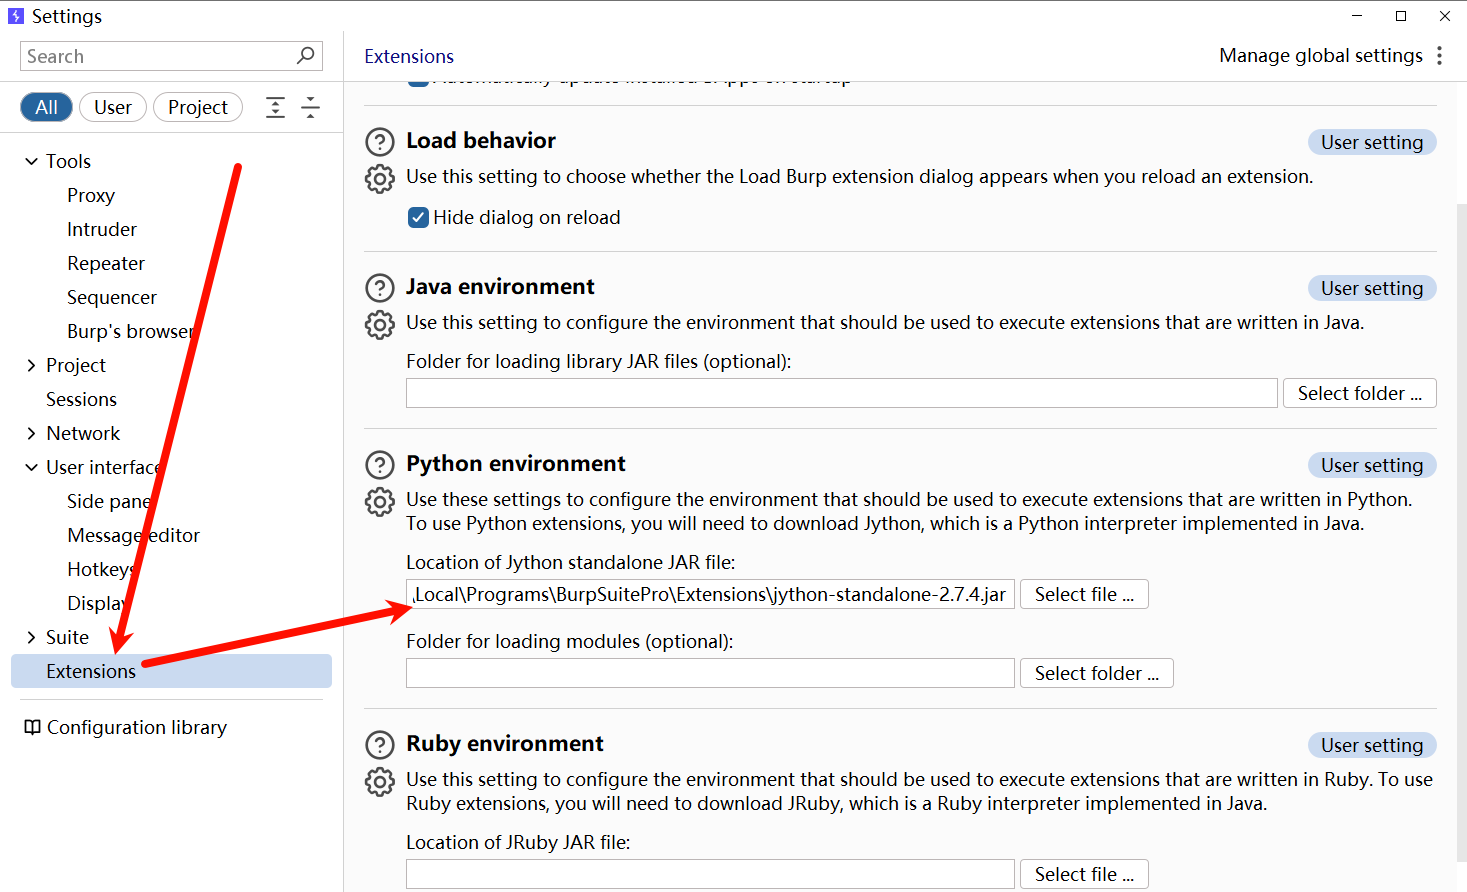
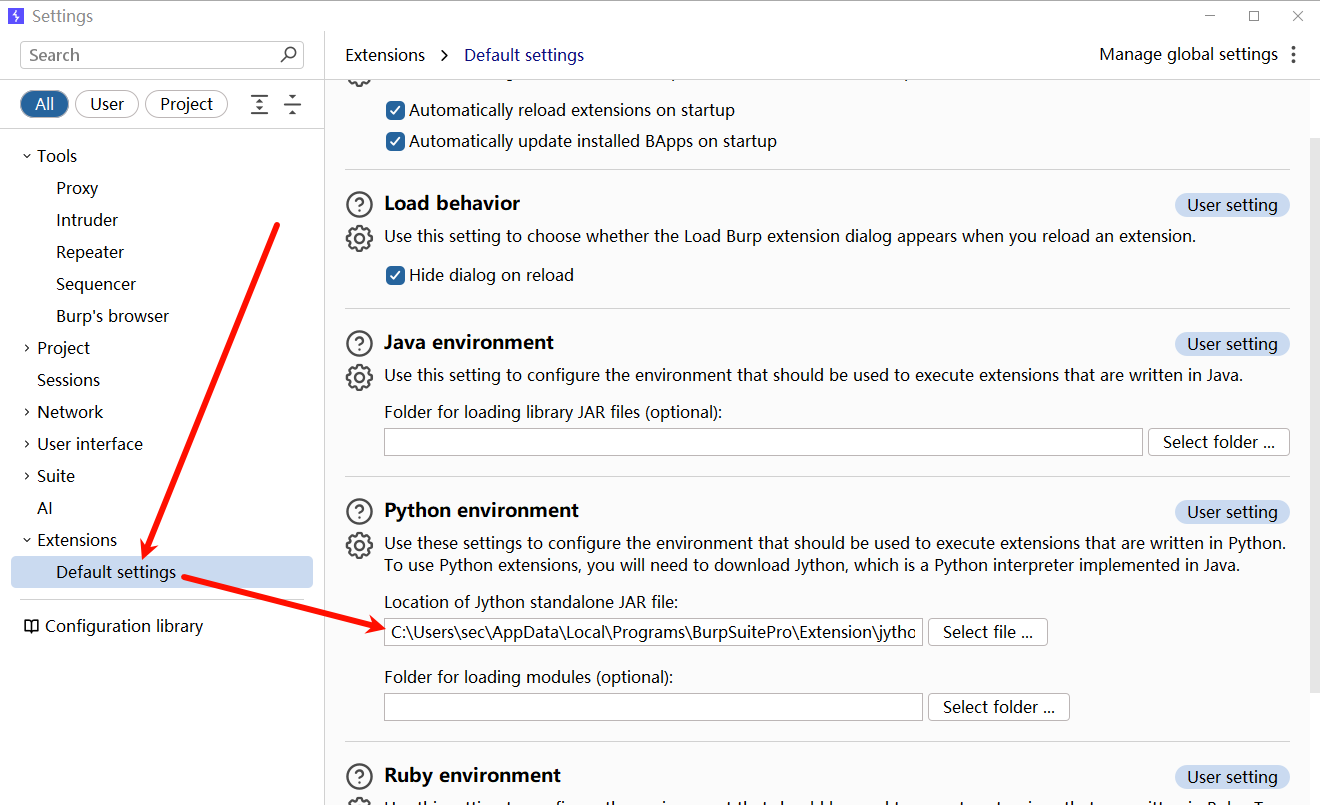
update

diff --git a/docs/Misc/Issues/输入规范.md b/docs/Misc/Issues/输入规范.md
@@ -9,7 +9,7 @@ example.com # 普通网站
 evil.com    # 恶意网站
 ```
 
-示例
+文档
 
 ```
 # 占位符
@@ -19,16 +19,27 @@ evil.com    # 恶意网站
 # 选项名
 case       # 单词
 kebab-case # 组合词
+
+# 遵循单词约定俗成的命名如: DoS
 ```
 
-文件名
+文件
 
 ```
-# 文件名统一使用单数
+# 机器友好
 case       # 单词
 snake_case # 组合词
 
-# 修改 markdown 文件的文件名时注意同步修改储存图片的目录文件的文件名
+# 人类友好
+Case       # 单词
+Snake Case # 组合词
+
+# 不改变默认文件名的命名方式, 如: Burp Suite 的默认安装目录文件名为 BurpSuite
+# 创建的新文件遵循关联目录的命名方式, 如:在 BurpSuite 中创建目录文件 Extension
+
+# 所有文件的命名一律使用单数
+
+# 修改 Markdown 文件的文件名时注意同步修改储存图片的目录文件的文件名
 ```
 
 变量名
@@ -65,9 +76,9 @@ snake_case # 组合词
 
 ## 4. 索引
 
-使用 markdown 编写文档时自定义的规范写法
+使用 Markdown 编写文档时自定义的规范写法
 
-> 当首行非标题时，gitbook 会将文件名作为主标题
+> 当首行非标题时，GitBook 会将文件名作为主标题
 
 ```
 (说明)
@@ -77,19 +88,19 @@ snake_case # 组合词
 ......
 ### 1.1.1.1.1.1.1. (三级标题)
 ---
-references
+Refrences
 - http://example.com (无序列表)
 ```
 
-## 5. vuln manual
+## 5. Vuln Manual
 
-每种漏洞的都以 [portswigger](https://portswigger.net/web-security/all-topics) 为框架;
+每种漏洞的都以 [PortSwigger](https://portswigger.net/web-security/all-topics) 为框架, 穿插 [Payloads All The Things](https://swisskyrepo.github.io/PayloadsAllTheThings/) 的进阶方法;
 
-漏洞报告则参考 [wooyun](https://wy.zone.ci/bugstypes.php) 和 [hackerone](https://hackerone.com/hacktivity/).
+漏洞报告则参考 [WooYun](https://wy.zone.ci/bugstypes.php) 和 [HackerOne](https://hackerone.com/hacktivity/).
 
 ---
 
-references
+References
 
-- [grammarbook](https://www.grammarbook.com/)
+- [Grammarbook](https://www.grammarbook.com/)
 

diff --git a/docs/Web/Pentest Toolkit/Burp Suite/Burp Suite.md b/docs/Web/Pentest Toolkit/Burp Suite/Burp Suite.md
@@ -68,15 +68,15 @@ C:\Users\sec\AppData\Local\Programs\BurpSuitePro\BurpSuitePro.vbs
 
 ![指定 UTF-8 字符集](./../../../../images/Burp%20Suite/%E6%8C%87%E5%AE%9A%20UTF-8%20%E5%AD%97%E7%AC%A6%E9%9B%86.png)
 
-在安装目录创建文件夹 `Extensions` 
+在安装目录创建文件夹 `Extension` 
 
 ```
-C:\Users\sec\AppData\Local\Programs\BurpSuitePro\Extensions
+C:\Users\sec\AppData\Local\Programs\BurpSuitePro\Extension
 ```
 
 > 所有的扩展都要下载到这个目录中
 
-下载 [jython-standalone.jar](https://central.sonatype.com/artifact/org.python/jython-standalone/versions) 到 `Extensions` 文件夹
+下载 [jython-standalone.jar](https://central.sonatype.com/artifact/org.python/jython-standalone/versions) 到 `Extension` 文件夹
 
 启动 Burp Suite , 配置 JAR 环境
 
@@ -145,13 +145,13 @@ print("登录失败".encode("utf-8"))
 
 ![在 Target 中设置 Scope, 仅捕获 `example.com` 及其子域名的数据包](./../../../../images/Burp%20Suite/%E5%9C%A8%20Target%20%E4%B8%AD%E8%AE%BE%E7%BD%AE%20Scope,%20%E4%BB%85%E6%8D%95%E8%8E%B7%20%60example.com%60%20%E5%8F%8A%E5%85%B6%E5%AD%90%E5%9F%9F%E5%90%8D%E7%9A%84%E6%95%B0%E6%8D%AE%E5%8C%85.png)
 
-### 6.4. Extensions
+### 6.4. Extension
 
-将下载好的扩展包解压到 `.\BurpSuitePro\Extensions\` 目录中
+将下载好的扩展包解压到 `.\BurpSuitePro\Extension\` 目录中
 
-添加 Extensions
+添加 Extension
 
-![添加 Extensions](./../../../../images/Burp%20Suite/%E6%B7%BB%E5%8A%A0%20Extensions.png)
+![添加 Extension](./../../../../images/Burp%20Suite/%E6%B7%BB%E5%8A%A0%20Extension.png)
 
 勾选扩展以加载
 
